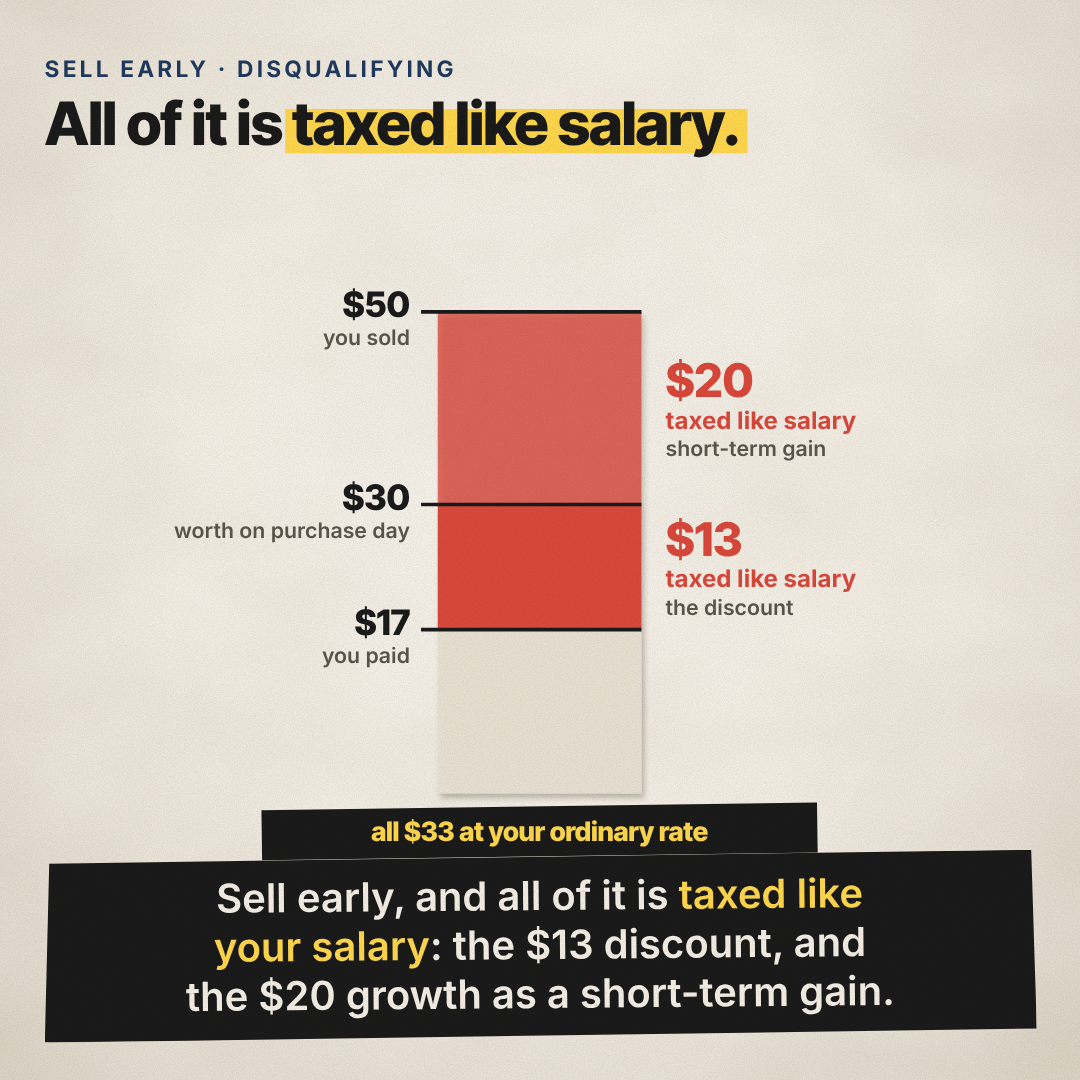
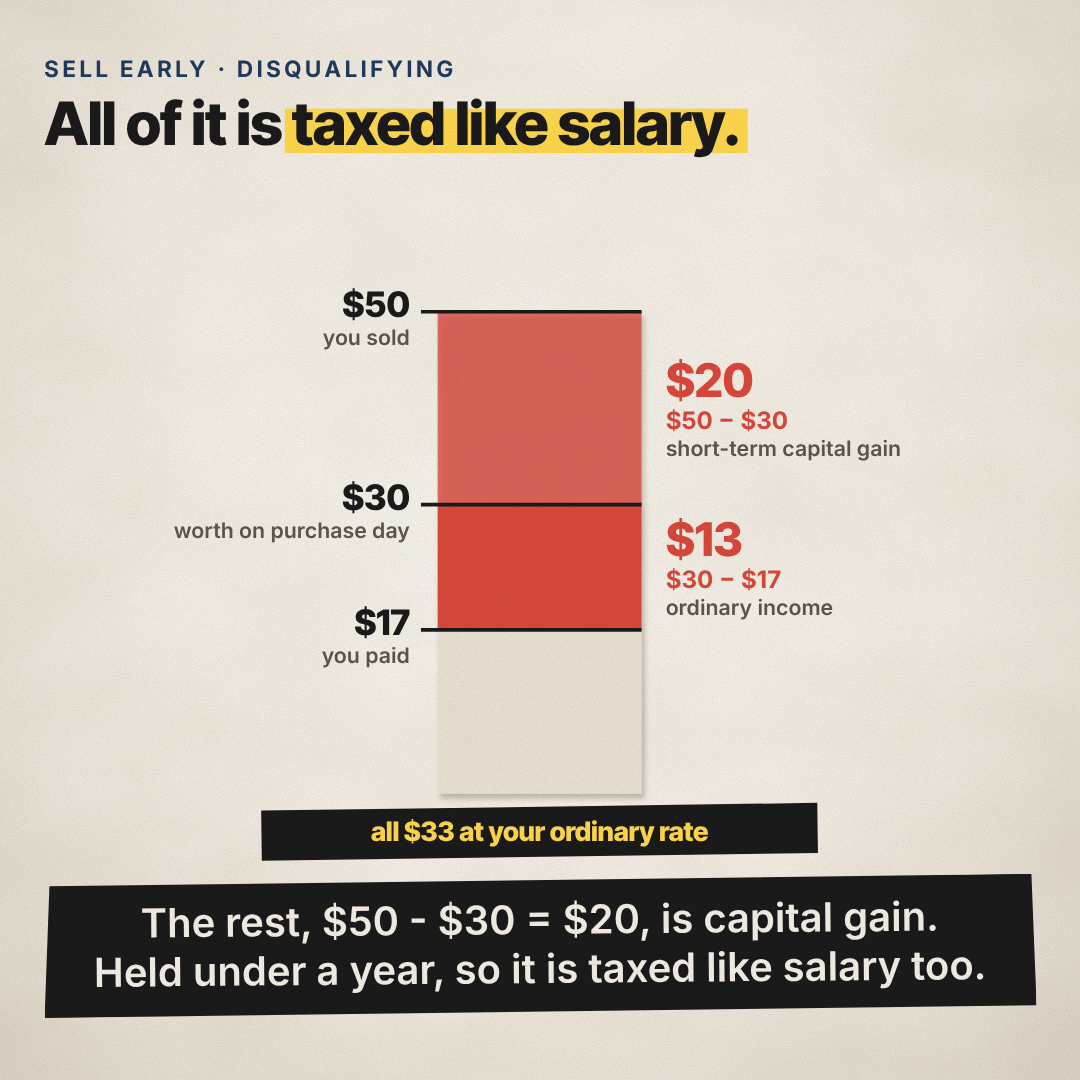
Show the ESPP formulas on screen and where the two calculations differ
Claude-Session: https://claude.ai/code/session_0195rJ7ctmyLCxsFuQm397aB

diff --git a/video/src/espp/script.ts b/video/src/espp/script.ts
@@ -8,6 +8,7 @@ export const SCENE_IDS = [
   "pieces",
   "early",
   "wait",
+  "differ",
   "dollars",
   "catch",
   "principle",
@@ -18,15 +19,13 @@ export type SceneId = (typeof SCENE_IDS)[number];
 
 /** Captions, in order. [[double brackets]] highlight a phrase. Numbers come from model.ts. */
 export const SCRIPT: Record<SceneId, Line[]> = {
-  hook: [
-    { text: "Your ESPP discount gets taxed one of two ways. The sale date picks which.", hero: true, secs: 4.4 },
-    { text: "A [[hypothetical]] example. Tax rules simplified." },
-  ],
+  hook: [{ text: "Your ESPP discount gets taxed one of two ways. The sale date picks which.", hero: true, secs: 4.6 }],
   how: [
     { text: "An ESPP buys company stock from your paycheck, at a discount." },
-    { text: `Hypothetical: the stock is ${D.offering} when the offering starts, and ${D.purchase} on the purchase date.` },
-    { text: `With a lookback, you pay ${D.discount} off the lower price: [[${D.paid} a share]].` },
-    { text: "No tax at purchase. The tax shows up when you sell." },
+    { text: `Hypothetical: the stock is ${D.offering} when the offering starts, and ${D.purchase} on purchase day.` },
+    {
+      text: `With a lookback, you pay ${D.payPct} of the lower price: ${D.basePrice} x ${D.payPct} = [[${D.paid}]]. No tax yet.`,
+    },
   ],
   clock: [
     {
@@ -35,27 +34,35 @@ export const SCRIPT: Record<SceneId, Line[]> = {
     { text: "Sell after both, and it is a [[qualifying disposition]]. Sell before either, and it is disqualifying." },
   ],
   pieces: [
-    { text: `Say you sell at ${D.sale}. You paid ${D.paid}, so you made ${D.totalGain} a share.` },
+    { text: `Say you sell at ${D.sale}. You paid ${D.paid}, so you made ${D.sale} - ${D.paid} = ${D.totalGain} a share.` },
     { text: `That ${D.totalGain} is two pieces: a [[${D.dqOrdinary} discount]], and [[${D.growth} of growth]] after you bought.` },
   ],
   early: [
     {
-      text: `Sell early, and all of it is [[taxed like your salary]]: the ${D.dqOrdinary} discount, and the ${D.growth} growth as a short-term gain.`,
+      text: `Sell early. Ordinary income is the purchase-day value minus what you paid: ${D.purchase} - ${D.paid} = [[${D.dqOrdinary}]].`,
+    },
+    {
+      text: `The rest, ${D.sale} - ${D.purchase} = ${D.growth}, is capital gain. Held under a year, so it is taxed like salary too.`,
     },
   ],
   wait: [
     {
-      text: `Wait out both clocks, and only ${D.qOrdinary} is taxed like salary. That is ${D.discount} of the ${D.offering} starting price.`,
+      text: `Wait. Ordinary income is the lesser of two numbers: ${D.discount} of the starting price, ${D.qOrdinary}, or your whole gain, ${D.totalGain}.`,
     },
-    { text: `The other ${D.qCapital} is long-term capital gain, taxed at a [[lower rate]].` },
+    { text: `So [[${D.qOrdinary}]]. The rest, ${D.totalGain} - ${D.qOrdinary} = ${D.qCapital}, is long-term capital gain.` },
+  ],
+  differ: [
+    {
+      text: "One line differs. Sell early, and the discount is measured on [[purchase day]]. Wait, and it is measured on [[the day the offering started]].",
+    },
   ],
   dollars: [
     { text: `On ${D.shares} shares, assuming ${D.ordinaryRate} on ordinary income and ${D.longTermRate} on long-term gains:` },
     { text: `Sell early: about ${D.taxEarly} of tax. Wait: about ${D.taxWait}. Same shares, same sale price.` },
   ],
   catch: [
-    { text: "Waiting has a cost. The stock can fall while you hold, and you hold more of your employer's stock." },
-    { text: "And check the 1099-B. It often leaves the ordinary income out of your cost basis, so it gets taxed twice." },
+    { text: "Waiting has a cost. The stock can fall while you hold more of your employer's stock." },
+    { text: "And check the 1099-B. It often leaves the ordinary income out of your cost basis." },
   ],
   principle: [
     { text: "The discount is the easy part. The sale date decides how it's taxed.", hero: true, secs: 4.6 },

diff --git a/video/src/espp/scenes/Differ.tsx b/video/src/espp/scenes/Differ.tsx
@@ -1,0 +1,78 @@
+import React from "react";
+import { useCurrentFrame } from "remotion";
+import { pop } from "../../anim";
+import { Highlight, SvgSwipe } from "../../components/Highlight";
+import { Stage, T } from "../../components/Stage";
+import { C } from "../../theme";
+import { D } from "../model";
+
+const COLS = [
+  { x: 40, title: "Sell early", sub: "disqualifying" },
+  { x: 510, title: "Wait", sub: "qualifying" },
+];
+const W = 450;
+
+/** The two calculations side by side; the first line is the only real difference. */
+export const Differ: React.FC = () => {
+  const frame = useCurrentFrame();
+  const rows = [
+    {
+      label: "ORDINARY INCOME",
+      at: 0.5,
+      cells: [
+        { how: "purchase-day value − paid", math: `${D.purchase} − ${D.paid}`, result: D.dqOrdinary, fill: C.red },
+        { how: `${D.discount} × starting price*`, math: `${D.discount} × ${D.offering}`, result: D.qOrdinary, fill: C.red },
+      ],
+    },
+    {
+      label: "CAPITAL GAIN",
+      at: 3.4,
+      cells: [
+        { how: "sale − purchase-day value", math: `${D.sale} − ${D.purchase}`, result: D.growth, fill: C.navy },
+        { how: "whole gain − ordinary income", math: `${D.totalGain} − ${D.qOrdinary}`, result: D.qCapital, fill: C.navy },
+      ],
+    },
+  ];
+  return (
+    <Stage kicker="Where the math differs" title={<>Same sale. <Highlight at={1.4}>One line changes.</Highlight></>}>
+      {COLS.map((c, i) => {
+        const p = pop(frame, 0.15 + i * 0.15);
+        return (
+          <g key={i} opacity={p} transform={`translate(${c.x} ${(1 - p) * 16})`}>
+            <g filter="url(#cut)">
+              <rect y={30} width={W} height={640} fill={C.white} />
+            </g>
+            <rect y={30} width={W} height={84} fill={i ? C.navy : C.ink} />
+            <T x={24} y={86} size={40} weight={800} head fill={C.paper}>{c.title}</T>
+            <T x={W - 24} y={84} size={24} weight={700} anchor="end" fill={C.paper}>{c.sub}</T>
+          </g>
+        );
+      })}
+      {rows.map((r, ri) => {
+        const p = pop(frame, r.at);
+        const y = 150 + ri * 262;
+        return (
+          <g key={ri} opacity={p}>
+            {r.cells.map((cell, ci) => {
+              const x = COLS[ci].x + 24;
+              return (
+                <g key={ci}>
+                  <T x={x} y={y + 22} size={22} weight={800} fill={C.inkSoft} letterSpacing="0.1em">{r.label}</T>
+                  {ri === 0 ? <SvgSwipe x={x - 6} y={y + 40} w={W - 40} h={38} at={1.5 + ci * 0.5} /> : null}
+                  <T x={x} y={y + 68} size={ci === 0 ? 27 : 28} weight={700}>{cell.how}</T>
+                  <T x={x} y={y + 136} size={46} weight={800} head>{cell.math}</T>
+                  <T x={x} y={y + 208} size={64} weight={800} head fill={cell.fill}>= {cell.result}</T>
+                </g>
+              );
+            })}
+            {ri === 0 ? <line x1={64} y1={y + 236} x2={936} y2={y + 236} stroke={C.ink} strokeWidth={3} strokeDasharray="4 10" /> : null}
+          </g>
+        );
+      })}
+      <g opacity={pop(frame, 4.4)}>
+        <T x={510 + 24} y={650} size={20} fill={C.inkSoft}>*or the whole gain, if that is smaller</T>
+        <T x={40 + 24} y={650} size={20} fill={C.inkSoft}>short-term if held a year or less</T>
+      </g>
+    </Stage>
+  );
+};

diff --git a/video/src/espp/scenes/Early.tsx b/video/src/espp/scenes/Early.tsx
@@ -5,6 +5,7 @@ import { Highlight } from "../../components/Highlight";
 import { Stage, T } from "../../components/Stage";
 import { C } from "../../theme";
 import { D, E, ESPP } from "../model";
+import { cue } from "../timeline";
 import { BandLabel, GainStack, Level, SBASE } from "./GainStack";
 
 /** Sell early: both pieces are taxed at the ordinary rate. */
@@ -12,10 +13,11 @@ export const Early: React.FC = () => {
   const frame = useCurrentFrame();
   const red = prog(frame, 0.5, 1.3);
   const l1 = pop(frame, 1.0);
-  const l2 = pop(frame, 2.4);
-  const tag = pop(frame, 3.6);
+  const c1 = cue("early", 1);
+  const l2 = pop(frame, c1 + 0.2);
+  const tag = pop(frame, c1 + 2.2);
   return (
-    <Stage kicker="Sell early · disqualifying" title={<>All of it is <Highlight at={1.0}>taxed like salary.</Highlight></>}>
+    <Stage kicker="Sell early · disqualifying" title={<>All of it is <Highlight at={c1 + 0.6}>taxed like salary.</Highlight></>}>
       <GainStack
         bands={[
           { from: 0, to: E.paid, fill: C.paperDark },
@@ -28,8 +30,8 @@ export const Early: React.FC = () => {
       <Level price={E.paid} label={D.paid} note="you paid" />
       <Level price={ESPP.purchasePrice} label={D.purchase} note="worth on purchase day" />
       <Level price={ESPP.salePrice} label={D.sale} note="you sold" />
-      <BandLabel from={E.paid} to={ESPP.purchasePrice} amount={D.dqOrdinary} line1="taxed like salary" line2="the discount" fill={C.red} opacity={l1} />
-      <BandLabel from={ESPP.purchasePrice} to={ESPP.salePrice} amount={D.growth} line1="taxed like salary" line2="short-term gain" fill={C.red} opacity={l2} />
+      <BandLabel from={E.paid} to={ESPP.purchasePrice} amount={D.dqOrdinary} line1={`${D.purchase} − ${D.paid}`} line2="ordinary income" fill={C.red} opacity={l1} />
+      <BandLabel from={ESPP.purchasePrice} to={ESPP.salePrice} amount={D.growth} line1={`${D.sale} − ${D.purchase}`} line2="short-term capital gain" fill={C.red} opacity={l2} />
       <g opacity={tag} transform={`translate(500 ${SBASE + 44}) scale(${0.8 + 0.2 * tag})`}>
         <rect x={-300} y={-30} width={600} height={54} fill={C.ink} transform="rotate(-0.8)" />
         <T x={0} y={7} size={29} weight={800} anchor="middle" head fill={C.highlight}>

diff --git a/video/src/espp/scenes/How.tsx b/video/src/espp/scenes/How.tsx
@@ -18,7 +18,6 @@ export const How: React.FC = () => {
   const frame = useCurrentFrame();
   const c1 = cue("how", 1);
   const c2 = cue("how", 2);
-  const c3 = cue("how", 3);
   const axes = prog(frame, 0.2, 0.8, easeOut);
   const line = prog(frame, c1 + 0.2, c1 + 1.8);
   const yo = py(ESPP.offeringPrice);
@@ -26,7 +25,7 @@ export const How: React.FC = () => {
   const ypaid = py(E.paid);
   const paid = pop(frame, c2 + 0.5);
   const gap = pop(frame, c2 + 1.4);
-  const noTax = pop(frame, c3 + 0.2);
+  const noTax = pop(frame, c2 + 2.4);
   return (
     <Stage kicker={KICKER} title={<>Buy at a discount. <Highlight at={c2 + 0.6}>Off the lower price.</Highlight></>}>
       <g opacity={axes}>
@@ -76,7 +75,7 @@ export const How: React.FC = () => {
         <line x1={X0} y1={ypaid} x2={X1 + 12} y2={ypaid} stroke={C.navy} strokeWidth={7} strokeLinecap="round" />
         <T x={X1 + 44} y={ypaid + 16} size={50} weight={800} head fill={C.navy}>{D.paid}</T>
         <T x={X1 + 44} y={ypaid + 50} size={25} weight={700} fill={C.navy}>you pay</T>
-        <T x={X0 + 14} y={ypaid + 36} size={24} weight={700} fill={C.navy}>{D.discount} off {D.offering}</T>
+        <T x={X0 + 14} y={ypaid + 38} size={27} weight={800} fill={C.navy}>{D.basePrice} × {D.payPct} = {D.paid}</T>
       </g>
       {/* the built-in gap on the purchase date */}
       <g opacity={gap}>

diff --git a/video/src/espp/timeline.ts b/video/src/espp/timeline.ts
@@ -13,17 +13,18 @@ export const FPS = 30;
 export const LEAD = 0.2;
 export const GAP = 0.2;
 export const TAIL = 0.4;
-export const CHARS_PER_SECOND = 21;
+export const CHARS_PER_SECOND = 22;
 
 export const SCENE_PACING: Record<SceneId, Pacing> = {
-  hook: { min: 6.5, extra: 0 },
-  how: { min: 12, extra: 0 },
+  hook: { min: 5.4, extra: 0 },
+  how: { min: 10, extra: 0 },
   clock: { min: 9, extra: 0 },
   pieces: { min: 7.5, extra: 0 },
-  early: { min: 6, extra: 0 },
+  early: { min: 8, extra: 0 },
   wait: { min: 8.5, extra: 0 },
+  differ: { min: 7, extra: 0.4 },
   dollars: { min: 8.5, extra: 0.4 },
-  catch: { min: 9, extra: 0 },
+  catch: { min: 8, extra: 0 },
   principle: { min: 4.8, extra: 0 },
   endcard: { min: 3.4, extra: 0 },
   disclosure: { min: 5.6, extra: 0 }, // hold at least 4s
@@ -50,5 +51,4 @@ export const sceneSeconds = built.sceneSeconds;
 export const STILL_AT: Record<SceneId, number[]> = Object.fromEntries(
   SCENE_IDS.map((id) => [id, [sceneSeconds(id) - 0.5]]),
 ) as Record<SceneId, number[]>;
-STILL_AT.wait = [cue("wait", 0) + 0.6, sceneSeconds("wait") - 0.5];
 STILL_AT.disclosure = [3];

diff --git a/video/src/espp/scenes/Wait.tsx b/video/src/espp/scenes/Wait.tsx
@@ -52,12 +52,12 @@ export const Wait: React.FC = () => {
         from={E.paid}
         to={E.paid + E.qualifying.ordinary + 5}
         amount={D.qOrdinary}
-        line1="taxed like salary"
-        line2={`${D.discount} of the ${D.offering} start price`}
+        line1={`${D.discount} × ${D.offering}`}
+        line2="ordinary income"
         fill={C.red}
         opacity={l1}
       />
-      <BandLabel from={ESPP.purchasePrice} to={ESPP.salePrice} amount={D.qCapital} line1="long-term gain" line2="lower rate" fill={C.navy} opacity={l2} />
+      <BandLabel from={ESPP.purchasePrice} to={ESPP.salePrice} amount={D.qCapital} line1={`${D.totalGain} − ${D.qOrdinary}`} line2="long-term capital gain" fill={C.navy} opacity={l2} />
       <g opacity={tag} transform={`translate(500 ${SBASE + 44}) scale(${0.8 + 0.2 * tag})`}>
         <rect x={-330} y={-30} width={660} height={54} fill={C.ink} transform="rotate(-0.8)" />
         <T x={0} y={7} size={29} weight={800} anchor="middle" head fill={C.highlight}>

diff --git a/video/src/espp/Video.tsx b/video/src/espp/Video.tsx
@@ -7,6 +7,7 @@ import { Disclosure } from "../scenes/Disclosure";
 import { EndCard } from "../scenes/EndCard";
 import { Catch } from "./scenes/Catch";
 import { Clock } from "./scenes/Clock";
+import { Differ } from "./scenes/Differ";
 import { Dollars } from "./scenes/Dollars";
 import { Early } from "./scenes/Early";
 import { Hook } from "./scenes/Hook";
@@ -24,6 +25,7 @@ const SCENE_COMPONENTS: Record<SceneId, React.FC> = {
   pieces: Pieces,
   early: Early,
   wait: Wait,
+  differ: Differ,
   dollars: Dollars,
   catch: Catch,
   principle: Principle,

diff --git a/video/src/espp/model.ts b/video/src/espp/model.ts
@@ -92,6 +92,8 @@ export const D = {
   yearsFromPurchase: (ESPP.monthsFromPurchase / 12).toString(),
   growth: usd(E.growth),
   shifted: usd(E.disqualifying.ordinary - E.qualifying.ordinary),
+  payPct: `${Math.round((1 - ESPP.discount) * 100)}%`,
+  basePrice: usd(E.basePrice),
   shares: ESPP.shares.toLocaleString("en-US"),
   ordinaryRate: `${Math.round(ESPP.ordinaryRate * 100)}%`,
   longTermRate: `${Math.round(ESPP.longTermRate * 100)}%`,

diff --git a/video/src/espp/scenes/Hook.tsx b/video/src/espp/scenes/Hook.tsx
@@ -17,7 +17,7 @@ export const Hook: React.FC = () => {
   const end = sceneSeconds("hook");
   // handle sweeps early -> late -> settles in the middle
   const s1 = prog(frame, 2.4, 3.8);
-  const s2 = prog(frame, 4.6, end - 0.6);
+  const s2 = prog(frame, 4.0, end - 0.3);
   const pos = 0.12 + 0.76 * s1 - 0.26 * s2;
   const late = pos > 0.5;
   const x = 90 + 820 * pos;

diff --git a/video/README.md b/video/README.md
@@ -7,7 +7,7 @@ Captions are burned in; there is no narration.
 1. **ISO / AMT** (`IsoAmt4x5`, `IsoAmt1x1`) — source in `src/`, ~90s.
 2. **Loaded to the door sticker** (`DoorSticker4x5`, `DoorSticker1x1`) — source in `src/doorSticker/`, ~90s.
 3. **Work log** (`WorkLog4x5`, `WorkLog1x1`) — what a few months of work for one couple were; source in `src/workLog/`, ~90s.
-4. **ESPP dispositions** (`Espp4x5`, `Espp1x1`) — selling early vs waiting, built up step by step and shown in dollars; source in `src/espp/`, ~86s.
+4. **ESPP dispositions** (`Espp4x5`, `Espp1x1`) — selling early vs waiting, the formulas for each, where they differ, and the result in dollars; source in `src/espp/`, ~90s.
 
 **DRAFTS. Advertising under the SEC Marketing Rule: each requires CCO approval before use.**
 
